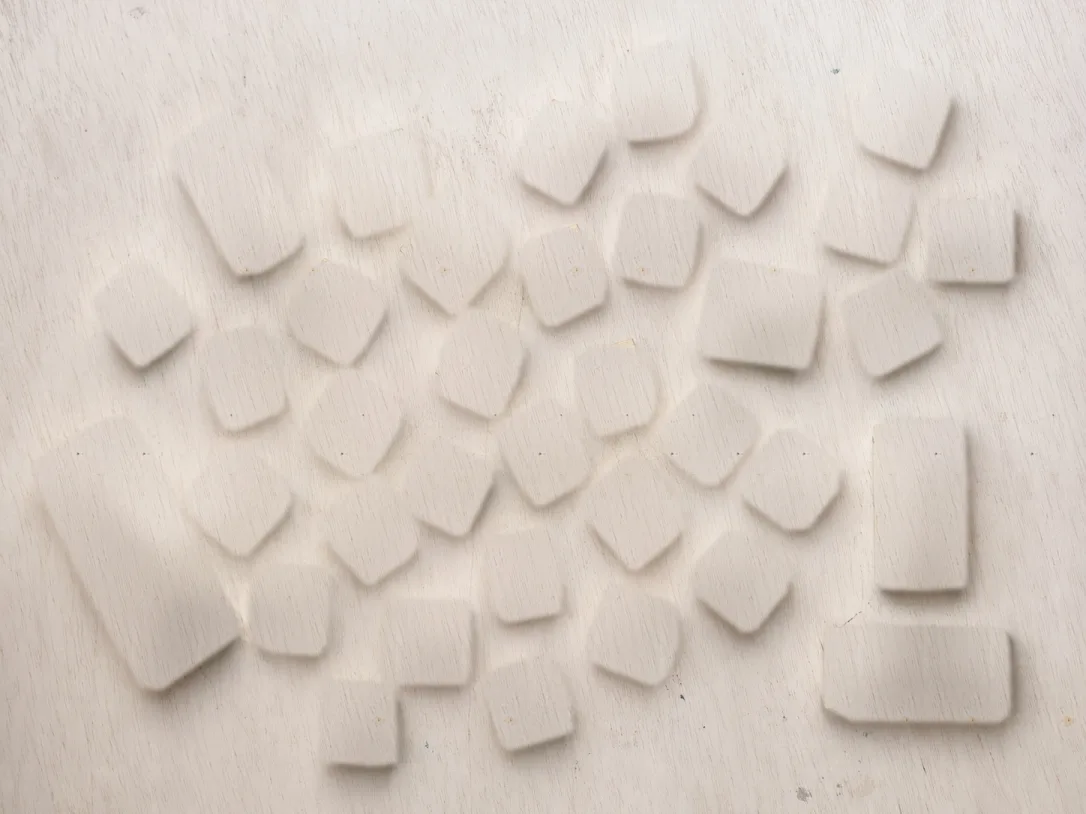
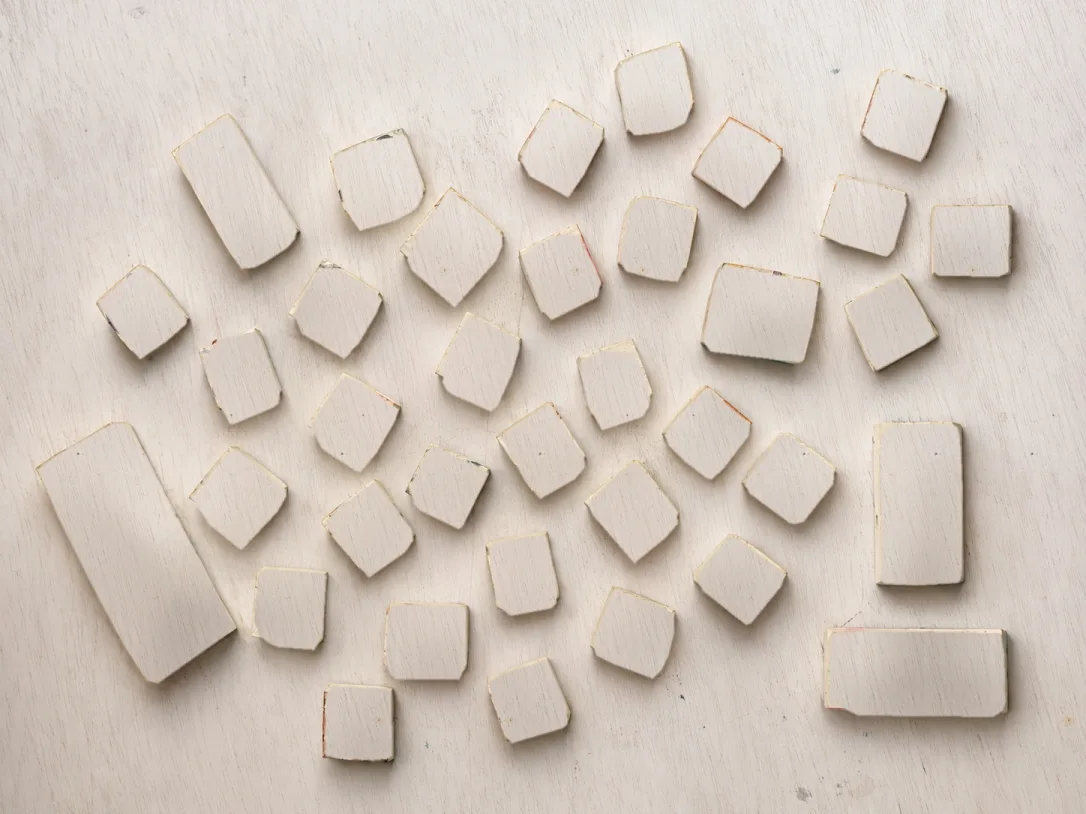
Seat the stamps on the table: keep the photo's own shadows, drop the glow
Claude-Session: https://claude.ai/code/session_01DXrMUya9EbEWmpr35hV4ST

diff --git a/src/index.css b/src/index.css
@@ -719,7 +719,7 @@ main > section.hello { margin-top: clamp(112px, 13vw, 184px); background: none; 
 .stamps-tray { position: relative; width: min(100%, 760px); overflow: visible; border-radius: 6px; }
 .stamps-tray .stamps-table { position: absolute; inset: 0; width: 100%; height: 100%; border-radius: 6px; box-shadow: 0 10px 22px -12px rgba(0, 0, 0, 0.35); }
 .stamps-piece { position: absolute; display: block; z-index: 1; }
-.stamps-piece img { position: absolute; inset: 0; width: 100%; height: 100%; pointer-events: none; user-select: none; transition: transform 0.3s var(--spring), filter 0.3s ease; filter: drop-shadow(0 1px 1px rgba(40, 30, 10, 0.25)); }
+.stamps-piece img { position: absolute; inset: 0; width: 100%; height: 100%; pointer-events: none; user-select: none; transition: transform 0.3s var(--spring), filter 0.3s ease; }
 .stamps-hit { position: absolute; inset: 0; z-index: 1; padding: 0; border: 0; background: transparent; cursor: grab; }
 .stamps-piece:has(.stamps-hit:hover), .stamps-piece.is-held { z-index: 3; }
 .stamps-hit:hover + img { transform: translateY(-7%) scale(1.03); filter: drop-shadow(0 9px 6px rgba(40, 30, 10, 0.3)); }
